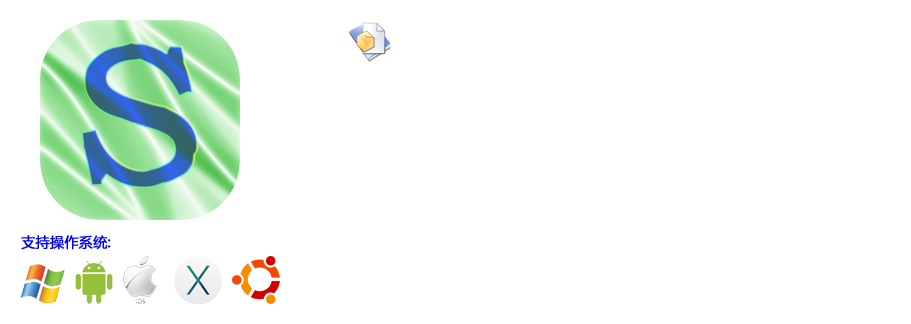
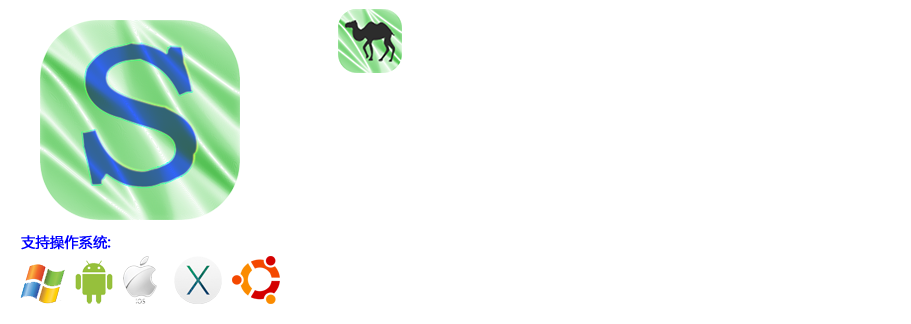
update

Changed region(s): [[0.3688, 0.0309, 0.461, 0.2469]]

diff --git a/index.htm b/index.htm
@@ -453,64 +453,64 @@
 			<div id="devScroll">
 				<div id="devBoards">
 					<div class="board" id="devb1">
-						<p>&nbsp;&nbsp;
-                            文件管理开发组件 v1.0<br>
-                            &nbsp;&nbsp;&nbsp;&nbsp;(2014年5月6日发布)<br>&nbsp;&nbsp;
-                            <a class="GlobalButton" href="#" target="_parent" style="position: relative;margin-left: 10px;"><span>立即下载</span></a>
-                            <br>
-                            <br>
-                            <br>
-                            组件作用：可用于文件打包，数据整合，加密存放等多种用途。<br>
-                            组件特点：1. 可读取数据库中的图片在内存中直接进行加载，无需存盘。<br>&nbsp;&nbsp;&nbsp;&nbsp;&nbsp;&nbsp;&nbsp;&nbsp;&nbsp;&nbsp;&nbsp;&nbsp;&nbsp;&nbsp;&nbsp;&nbsp;&nbsp;
-                            2. 可读取数据库中的音频文件在内存中直接进行播放，无需存盘。<br>&nbsp;&nbsp;&nbsp;&nbsp;&nbsp;&nbsp;&nbsp;&nbsp;&nbsp;&nbsp;&nbsp;&nbsp;&nbsp;&nbsp;&nbsp;&nbsp;&nbsp;
-                            3. 存放文件可自由选择压缩。<br>&nbsp;&nbsp;&nbsp;&nbsp;&nbsp;&nbsp;&nbsp;&nbsp;&nbsp;&nbsp;&nbsp;&nbsp;&nbsp;&nbsp;&nbsp;&nbsp;&nbsp;
-                            4. 可将C++类，结构体，数据流等按照二进制数据方式存储和读取。<br>
-                            加密与压缩方式：修改过的256位AES算法加密，修改过的Zlib算法压缩。<br>
-                            维护方式：定期对数据库进行压缩，以整合频繁使用所产生的碎片空间。<br>
-                            支持类型：整型，长整型，单精度浮点型，双精度浮点型，货币型，日期型，字符串型，文件型，字节数组，整型数组，长整型数组，单精度浮点型数组，双精度浮点型数组，货币型数组，日期型数组，字符串型数组。
-
+					<a class="GlobalButton" href="#" target="_parent" style="position: relative;margin-left: 420px;margin-top: 30px;"><span>立即下载</span></a>
+						<p>
+                            单峰驼 v1.0 (2014年5月6日发布)
+							<br>
+                            自主研发的分布式数据存储中间件, 非开源 属于CamelSoft系列基础开发组件. 可以方便快捷的搭建和部署基于分布式存储应用的云端系统, 轻松实现跨区域分布式存储系统. 由C++语言编写, 属于非关系数据库<br>
+							<br>
+                            特点：<br>
+							* 高并发性，高灵活性，高拓展性<br>
+							* 支持分布式部署<br>
+							* 支持查询<br>
+							* 支持序列化<br>
+							* 支持网络访问<br>
+							* 使用高效的二进制数据存储，包括大型对象（如视频等）<br>
+							* 存放文件可自由选择压缩<br>
+							* 自动处理碎片，以支持云计算层次的扩展性<br>
+							* 加密, 优化的256位AES算法加密<br>
+							* 压缩, 优化的zlib算法压缩<br>
+							
 						</p>
 					</div>
 					<div class="board" id="devb2">
-						<p>&nbsp;&nbsp;
-                            文件传输开发组件 v1.0<br>
-                            &nbsp;&nbsp;&nbsp;&nbsp;(2014年5月6日发布)<br>
-                            <a class="GlobalButton" href="#" target="_parent" style="position: relative;margin-left: 10px;"><span>立即下载</span></a>
-                            <br>
-                            <br>
-                            <br>
-                            组件作用：UDP协议下的可靠数据通讯组件，可用于建立P2P环境，文件传输，数据通讯。<br>
-                            组件特点：1. UDP协议的轻量级通讯组件，数据通讯实现简单，快速，高效。<br>&nbsp;&nbsp;&nbsp;&nbsp;&nbsp;&nbsp;&nbsp;&nbsp;&nbsp;&nbsp;&nbsp;&nbsp;&nbsp;&nbsp;&nbsp;&nbsp;&nbsp;
-                            2. 高层协议实现数据通讯的稳定可靠，可动态修改参数调整通讯策略。<br>&nbsp;&nbsp;&nbsp;&nbsp;&nbsp;&nbsp;&nbsp;&nbsp;&nbsp;&nbsp;&nbsp;&nbsp;&nbsp;&nbsp;&nbsp;&nbsp;&nbsp;
-                            3. 可使用同一套接字初始化多个组件进行多线程数据通讯。<br>
-                            解决丢包：采用自行研发的并行滑动窗口协议，保证数据的稳定可靠传输。<br>
-                            动态调整：数据通讯可行效率动态评估和计算获得当前环境下的最佳通讯表现。<br>
-                            数据组帧：通讯数据包发送分包，接收组包，保证数据顺序完整。
-
+					<a class="GlobalButton" href="#" target="_parent" style="position: relative;margin-left: 420px;margin-top: 30px;"><span>立即下载</span></a>
+						<p>
+                            双峰驼 v1.0 (2014年5月6日发布)
+							<br>
+                            自主研发的点对点可靠网络传输中间件, 非开源 属于CamelSoft系列基础开发组件. UDP和TCP协议下的可靠数据通讯组件，可用于建立P2P环境，文件传输，数据通讯。基于UDP/TCP协议的内网穿透解决方案, 轻松实现音视频会议中心, 直播, 远程桌面/文档演示等功能<br>
+							<br>
+                            特点：<br>
+							* 轻量级通讯组件，数据通讯实现简单，快速，高效。<br>
+							* 高层协议实现数据通讯的稳定可靠，可动态修改参数调整通讯策略。<br>
+							* 可使用同一套接字初始化多个组件进行多线程数据通讯。<br>
+							* 采用自行研发的并行滑动窗口协议，保证数据的稳定可靠传输。<br>
+							* 数据通讯可行效率动态评估和计算获得当前环境下的最佳通讯表现。<br>
+							* 通讯数据包发送分包，接收组包，保证数据顺序完整。<br>
+							
 						</p>
 					</div>
 					<div class="board"  id="devb3">
-						<p>&nbsp;&nbsp;
-                            程序异常开发组件 v1.0<br>
-                            &nbsp;&nbsp;&nbsp;&nbsp;(2014年5月6日发布)<br>
-                            <a class="GlobalButton" href="#" target="_parent" style="position: relative;margin-left: 10px;"><span>立即下载</span></a>
-                            <br>
-                            <br>
-                            <br>
-                            组件作用：在应用程序中加入__try __except机制，在调试或发行版本中均可截获程序异常并写成minidump文件进行调试和分析。<br>
-                            组件特点：仅需做很小的修改就可以让其发挥作用。
+					 <a class="GlobalButton" href="#" target="_parent" style="position: relative;margin-left: 420px;margin-top: 30px;"><span>立即下载</span></a>
+						<p>
+                            异常检测组件 v1.0 (2014年5月6日发布)<br>
+							<br>
+                            程序异常崩溃时生成Dump文件和日志, 非开源 属于CamelSoft系列基础开发组件.<br>
+							Dump文件是进程的内存镜像。可以把程序的执行状态通过调试器保存到dump文件中。<br>
+							<br>
+							特点：<br>
+                            在应用程序中加入__try __except机制，在调试或发行版本中均可截获程序异常并写成minidump文件进行调试和分析。<br>
+                            仅需做很小的修改就可以让其发挥作用。
 						</p>
 					</div>
 					<div class="board"  id="devb4">
-						<p>&nbsp;&nbsp;
-                            骆驼数据管理软件 v1.0<br>
-                            &nbsp;&nbsp;&nbsp;&nbsp;(2014年5月6日发布)<br>
-                            <a class="GlobalButton" href="#" target="_parent" style="position: relative;margin-left: 10px;"><span>立即下载</span></a>
+					<a class="GlobalButton" href="#" target="_parent" style="position: relative;margin-left: 420px;margin-top: 30px;"><span>立即下载</span></a>
+						<p>
+                            单峰驼可视化IDE v1.0 (2014年5月6日发布)<br>
                             <br>
                             <br>
                             <br>
-                            组件作用：将各种计算机数据或文件打包成一个独立的文件，并且加密保存。同时可以进行数据的显示，查询和导出。<br>
-                            组件特点：Windows下运行的自主研发数据库软件，属于<文件管理开发组件>的图形操作界面。
+                            单峰驼的图形操作界面。
 						</p>
 					</div>
 			  </div>
@@ -518,10 +518,10 @@
 			  <br clear="all" />
 				<div id="thumbs" class="t">
 					<div class="navi">
-						<a id="t1" class="active">文件管理开发组件</a>
-						<a id="t2" class="">文件传输开发组件</a>
-						<a id="t3" class="">程序异常开发组件</a>
-						<a id="t4" class="">骆驼数据管理软件</a>
+						<a id="t1" class="active">单峰驼</a>
+						<a id="t2" class="">双峰驼</a>
+						<a id="t3" class="">异常检测</a>
+						<a id="t4" class="">可视化IDE</a>
 					</div>
 				</div>
 			</div>
@@ -540,7 +540,7 @@
 		<div class="about">
 			<p class="author">作者: 郑天佐</p>
 			<p class="im">QQ: 278969898</p>
-			<p class="email">Email: CamelStudio@163.com</p>
+			<p class="email">Email: CamelSoft@163.com</p>
 		</div>
 	</div>
 		
